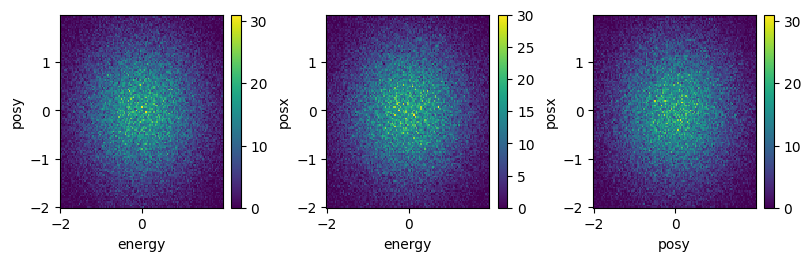
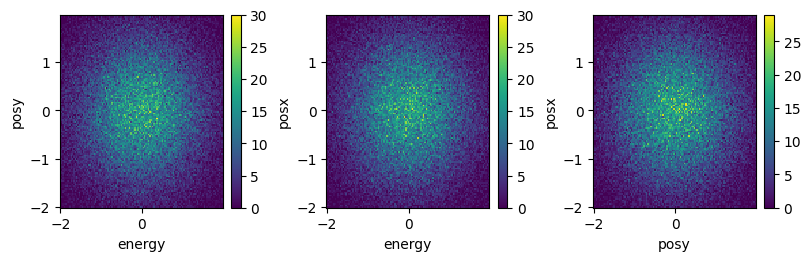
Updating tutorial rsts for docs

diff --git a/docs/tutorial/1 - Binning fake data.rst b/docs/tutorial/1 - Binning fake data.rst
@@ -64,33 +64,33 @@ Generate Fake Data
       <tbody>
         <tr>
           <th>0</th>
-          <td>-0.073557</td>
-          <td>0.222245</td>
-          <td>-0.426680</td>
+          <td>-0.559979</td>
+          <td>-1.035467</td>
+          <td>0.105233</td>
         </tr>
         <tr>
           <th>1</th>
-          <td>0.588918</td>
-          <td>0.118260</td>
-          <td>0.134261</td>
+          <td>-1.169115</td>
+          <td>-2.500055</td>
+          <td>-0.318407</td>
         </tr>
         <tr>
           <th>2</th>
-          <td>1.273413</td>
-          <td>2.042429</td>
-          <td>-1.908250</td>
+          <td>-0.844209</td>
+          <td>-2.421613</td>
+          <td>-0.701325</td>
         </tr>
         <tr>
           <th>3</th>
-          <td>-1.878002</td>
-          <td>0.704366</td>
-          <td>1.206467</td>
+          <td>0.883959</td>
+          <td>0.294016</td>
+          <td>-0.952194</td>
         </tr>
         <tr>
           <th>4</th>
-          <td>-0.944826</td>
-          <td>1.441022</td>
-          <td>0.438664</td>
+          <td>-0.477803</td>
+          <td>-1.065592</td>
+          <td>-0.648771</td>
         </tr>
         <tr>
           <th>...</th>
@@ -100,33 +100,33 @@ Generate Fake Data
         </tr>
         <tr>
           <th>99995</th>
-          <td>-1.316614</td>
-          <td>-0.846635</td>
-          <td>-0.576420</td>
+          <td>-2.064485</td>
+          <td>-1.021941</td>
+          <td>-0.714520</td>
         </tr>
         <tr>
           <th>99996</th>
-          <td>1.216128</td>
-          <td>-0.595398</td>
-          <td>1.033816</td>
+          <td>-0.521770</td>
+          <td>-0.918292</td>
+          <td>-0.712320</td>
         </tr>
         <tr>
           <th>99997</th>
-          <td>-0.237043</td>
-          <td>1.171078</td>
-          <td>-0.359760</td>
+          <td>0.134919</td>
+          <td>-1.343498</td>
+          <td>-1.078550</td>
         </tr>
         <tr>
           <th>99998</th>
-          <td>0.775498</td>
-          <td>-0.043460</td>
-          <td>-0.170680</td>
+          <td>0.645835</td>
+          <td>1.968997</td>
+          <td>-0.368549</td>
         </tr>
         <tr>
           <th>99999</th>
-          <td>2.246347</td>
-          <td>0.561638</td>
-          <td>1.702143</td>
+          <td>-1.554335</td>
+          <td>0.041844</td>
+          <td>-1.983995</td>
         </tr>
       </tbody>
     </table>
@@ -162,8 +162,8 @@ Compute the binning along the pandas dataframe
 
 .. parsed-literal::
 
-    CPU times: user 1.02 s, sys: 11.7 ms, total: 1.03 s
-    Wall time: 1.03 s
+    CPU times: user 1.16 s, sys: 15.8 ms, total: 1.17 s
+    Wall time: 1.18 s
 
 
 .. code:: ipython3
@@ -286,8 +286,8 @@ multiple for demonstration purpouses.
 
 .. parsed-literal::
 
-    CPU times: user 586 ms, sys: 277 ms, total: 863 ms
-    Wall time: 766 ms
+    CPU times: user 553 ms, sys: 327 ms, total: 880 ms
+    Wall time: 793 ms
 
 
 .. code:: ipython3

diff --git a/docs/tutorial/2 - Conversion Pipeline for example time-resolved ARPES data.rst b/docs/tutorial/2 - Conversion Pipeline for example time-resolved ARPES data.rst
@@ -30,7 +30,7 @@ Load Data
 
     data_path = '../../' # Put in Path to a storage of at least 20 Gbyte free space.
     if not os.path.exists(data_path + "/WSe2.zip"):
-        os.system(f"curl --output {data_path}/WSe2.zip https://zenodo.org/record/6369728/files/WSe2.zip")
+        os.system(f"curl -L --output {data_path}/WSe2.zip https://zenodo.org/record/6369728/files/WSe2.zip")
     if not os.path.isdir(data_path + "/Scan049_1") or not os.path.isdir(data_path + "energycal_2019_01_08/"):
         os.system(f"unzip -d {data_path} -o {data_path}/WSe2.zip")
 
@@ -54,7 +54,7 @@ Load Data
 
 .. code:: ipython3
 
-    # Apply jittering to X, Y, t, ADC columns. 
+    # Apply jittering to X, Y, t, ADC columns.
     # Columns are defined in the config, or can be provided as list.
     sp.add_jitter()
 
@@ -103,8 +103,8 @@ distortions from the perfect n-fold rotational symmetry.
     # Manual selection: Use a GUI tool to select peaks:
     #sp.define_features(rotation_symmetry=6, include_center=True)
     #sp.generate_splinewarp(rotation_symmetry=6, include_center=True, fwhm=10, sigma=12, sigma_radius=4)
-    # Autodetect: Uses the DAOStarFinder routine to locate maxima. 
-    # Parameters are: 
+    # Autodetect: Uses the DAOStarFinder routine to locate maxima.
+    # Parameters are:
     #   fwhm: Full-width at half maximum of peaks.
     #   sigma: Number of standard deviations above the mean value of the image peaks must have.
     #   sigma_radius: number of standard deviations around a peak that peaks are fitted
@@ -290,7 +290,7 @@ other curves using a dynamic time warping algorithm.
     # sp.find_bias_peaks(ranges=rg, infer_others=False)
     # Option 2 = specify the range for one curve and infer the others
     # This will open an interactive tool to select the correct ranges for the curves.
-    # IMPORTANT: Don't choose the range too narrow about a peak, and choose a refid 
+    # IMPORTANT: Don't choose the range too narrow about a peak, and choose a refid
     # somewhere in the middle or towards larger biases!
     rg = (66100, 67000)
     sp.find_bias_peaks(ranges=rg, ref_id=5, infer_others=True, apply=True)

diff --git a/docs/tutorial/Flash energy calibration.rst b/docs/tutorial/Flash energy calibration.rst
@@ -1,0 +1,86 @@
+.. code:: ipython3
+
+    %load_ext autoreload
+    %autoreload 2
+    
+    from sed import SedProcessor
+    import sed
+    import numpy as np
+    
+    # %matplotlib inline
+    %matplotlib widget
+    import matplotlib.pyplot as plt
+
+Try to calibrate energy
+=======================
+
+Spin-integrated branch, E_TOF=10eV
+----------------------------------
+
+single scan, move sample bias manually every 2000 pulses.
+
+.. code:: ipython3
+
+    sp = SedProcessor(runs=[44638], config="config_flash_energy_calib.yaml", system_config={})
+
+.. code:: ipython3
+
+    sp.add_jitter()
+
+.. code:: ipython3
+
+    axes = ['sampleBias', 'dldTime']
+    bins = [6, 500]
+    ranges = [[0,6], [40000, 55000]]
+    res = sp.compute(bins=bins, axes=axes, ranges=ranges)
+
+.. code:: ipython3
+
+    sp.load_bias_series(binned_data=res)
+
+.. code:: ipython3
+
+    ranges=(44500, 46000)
+    ref_id=3
+    sp.find_bias_peaks(ranges=ranges, ref_id=ref_id)
+
+.. code:: ipython3
+
+    ref_id=3
+    ref_energy=-.3
+    sp.calibrate_energy_axis(ref_id=ref_id, ref_energy=ref_energy, method="lstsq", order=3)
+
+.. code:: ipython3
+
+    ref_id=3
+    ref_energy=-.3
+    sp.calibrate_energy_axis(ref_id=ref_id, ref_energy=ref_energy, method="lmfit")
+
+.. code:: ipython3
+
+    sp.append_energy_axis(preview=True)
+
+.. code:: ipython3
+
+    axes = ['sampleBias', 'energy']
+    bins = [6, 1000]
+    ranges = [[0,6], [-5, 5]]
+    res = sp.compute(bins=bins, axes=axes, ranges=ranges)
+
+.. code:: ipython3
+
+    plt.figure()
+    res[3,:].plot()
+
+.. code:: ipython3
+
+    axes = ['sampleBias', 'energy', 'dldPosX']
+    bins = [6, 100, 480]
+    ranges = [[0,6], [-2, 1], [420,900]]
+    res = sp.compute(bins=bins, axes=axes, ranges=ranges)
+
+.. code:: ipython3
+
+    plt.figure()
+    res[3, :, :].plot()
+
